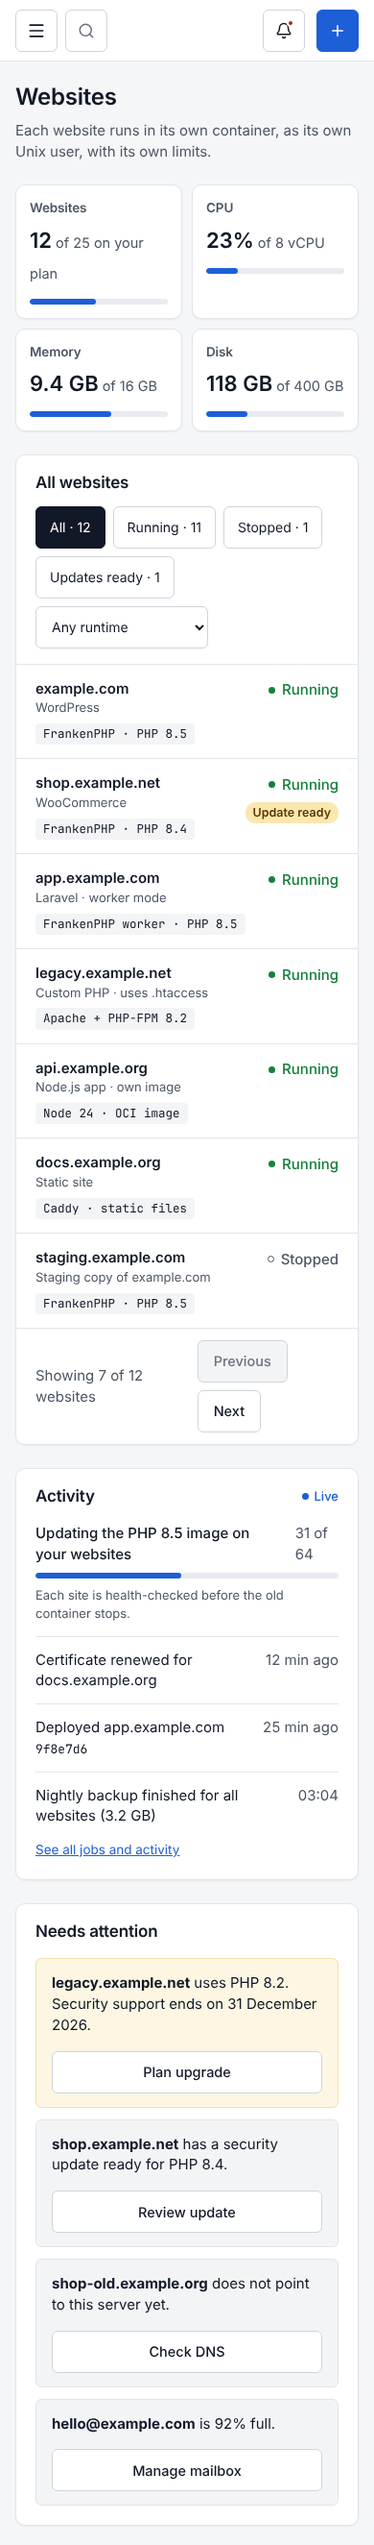
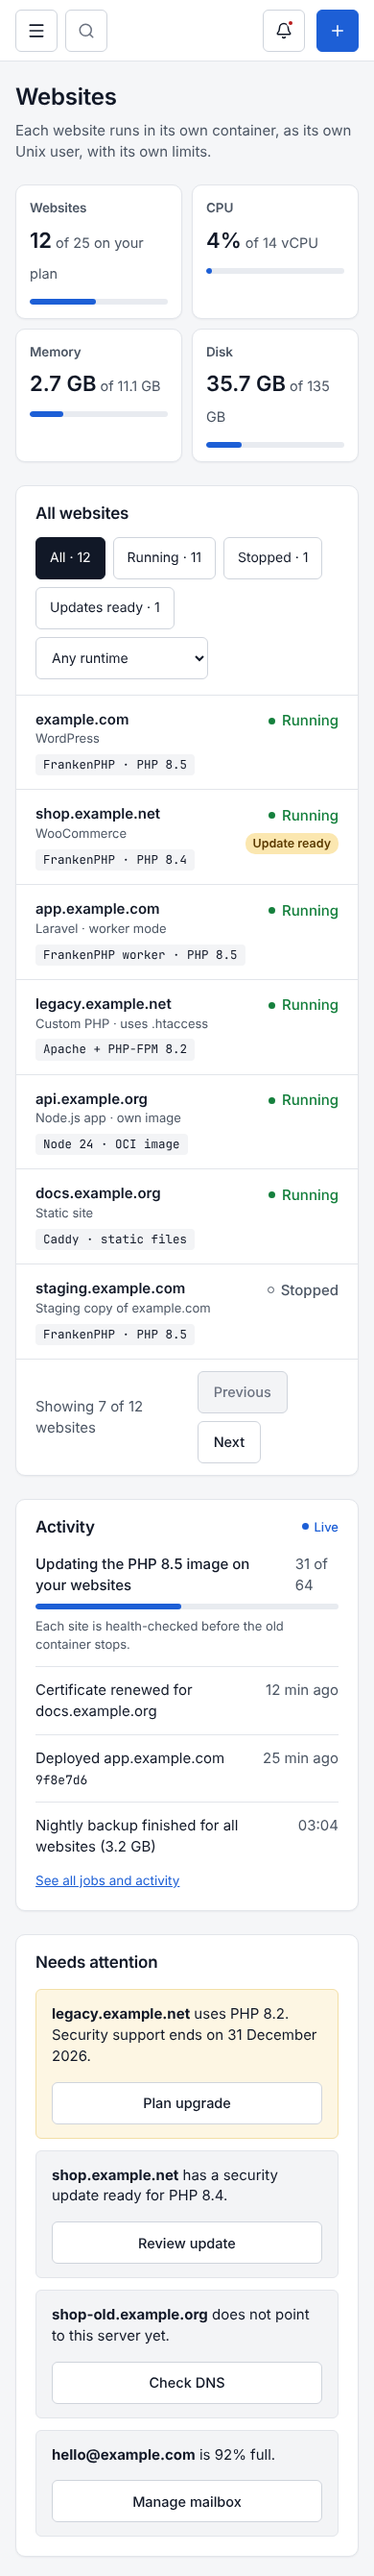
Add a registry check button, live screenshots and docs
- Updates: an administrator can check one image for a new version now.
- Release: pin cosign 2.5.2, because Podman and the panel read the ".sig"
  signature tags of cosign 2.
- Screenshots of the panel on the real API, as an administrator and as a
  website owner. The mock screenshots of the websites list and the new
  website page show the new usage totals.
- status.md, development.md and decisions.md describe live mode, the
  areas that it hides and the registry check.

Claude-Session: https://claude.ai/code/session_01YKQ1BpBq7f3kaKU2RAA1F9

diff --git a/web/src/pages/UpdatesPage.tsx b/web/src/pages/UpdatesPage.tsx
@@ -2,7 +2,8 @@ import { Check } from "lucide-react";
 import { useState } from "react";
 import { Link } from "react-router-dom";
 import { useAction, useStore } from "../api/hooks";
-import { pauseRollout, rollBackAll, setImagePolicy, startRollout } from "../api/store";
+import { LIVE } from "../api/mode";
+import { checkImage, pauseRollout, rollBackAll, setImagePolicy, startRollout } from "../api/store";
 import type { Rollout, UpdatePolicy } from "../api/types";
 import { Topbar } from "../components/Layout";
 import { Card, ConfirmButton, FormError, PageHeader, Status } from "../components/ui";
@@ -75,6 +76,7 @@ function RolloutCard({ rollout }: { rollout: Rollout }) {
 export function UpdatesPage() {
   const state = useStore();
   const start = useAction(startRollout);
+  const check = useAction(checkImage);
   const [editing, setEditing] = useState<string | null>(null);
   const rollout = state.rollout;
   const active = rollout && (rollout.state === "running" || rollout.state === "paused");
@@ -87,7 +89,7 @@ export function UpdatesPage() {
         <PageHeader title="Updates" description="Every runtime is a signed container image. Roll it out in stages, check each website's health, and roll back on its own if a check fails." />
         {rollout && <RolloutCard rollout={rollout} />}
         <Card title="Runtime images" className="mt" actions={<Link className="btn" to="/apps">Add your own image</Link>}>
-          <FormError error={start.error} />
+          <FormError error={start.error ?? check.error} />
           <div className="table-wrap">
             <table>
               <thead><tr><th scope="col">Image</th><th scope="col">Running</th><th scope="col">Available</th><th scope="col">Websites</th><th scope="col">Update policy</th><th scope="col"><span className="visually-hidden">Actions</span></th></tr></thead>
@@ -125,6 +127,7 @@ export function UpdatesPage() {
                       {i.available && i.availableNote !== "rolling_out" && (
                         <button type="button" className="btn btn-sm" disabled={!!active} onClick={() => void start.run(i.id)}>Start rollout</button>
                       )}
+                      {LIVE && !i.available && <button type="button" className="btn btn-sm" disabled={check.busy} onClick={() => void check.run(i.id)}>Check now</button>}
                     </td>
                   </tr>
                 ))}

diff --git a/web/src/api/store.ts b/web/src/api/store.ts
@@ -1145,6 +1145,12 @@ export function setImagePolicy(imageId: string, policy: UpdatePolicy) {
   });
 }
 
+/** FR-1110: checks the registry for a new signed version of the image now. */
+export function checkImage(imageId: string) {
+  if (!LIVE) return;
+  return call(() => live.request("POST", `/images/${imageId}/check`)).then(() => refresh());
+}
+
 export function startRollout(imageId: string) {
   if (LIVE) return call(() => live.request("POST", "/rollouts", { imageId })).then(() => refresh());
   if (state.rollout && (state.rollout.state === "running" || state.rollout.state === "paused")) {

diff --git a/docs/status.md b/docs/status.md
@@ -8,6 +8,9 @@ shows what this repository has now.
 | Item | Where |
 | ---- | ----- |
 | Web panel with all screens of the specification, section 9, and their actions | `web/` |
+| Web panel on the real API (live mode). The production build uses it. | `web/src/api/live.ts` |
+| New image tags from the registry: the panel checks each hour and accepts a tag only with a good signature (FR-1110) | `api/app/Services/ImageUpdateChecker.php` |
+| Host CPU, memory and disk use in the agent report | `agent/internal/status` |
 | Panel API: accounts, scoped tokens, TOTP, customers, plans, websites, domains, runtimes, databases, backups, servers, images, rollouts, jobs and audit events | `api/` |
 | OpenAPI 3.1 document, with a test that compares it to the routes | `openapi/`, `api/tests/Feature/OpenApiTest.php` |
 | Agent: websites, limits, runtime changes without downtime, domains and TLS, MariaDB and PostgreSQL databases, backups and restores, host security updates, reboots, gVisor install and rollback, signed self-update with rollback | `agent/` |
@@ -22,11 +25,11 @@ shows what this repository has now.
 
 | Item | Notes |
 | ---- | ----- |
-| Web panel on the real API | The web panel uses a mock API with the same shapes. The next step is to replace `web/src/api/store.ts` with calls to the API. |
+| Areas without an API | The API of release 0.1 has no DNS, email, files, cron, deploys, SSH access, logs, passkeys, alerts, branding or system settings. In live mode the web panel hides these areas. In mock mode it shows them with sample data. |
+| Use of each website | The agent does not report the CPU, memory and disk use of each website yet. The panel shows 0 for each website. |
 | SFTP | The web panel shows SFTP access. The agent has no SFTP service yet. |
 | gVisor benchmark | Release 0.1 must measure websites, MariaDB and DNS in gVisor (R-08). This is not done. |
 | Passkeys | The web panel shows passkeys. The API does not support passkeys yet. Users sign in with a password and TOTP. |
-| New image tags from the registry | The panel does not read the registry for new tags yet (FR-1110). An operator adds the tag. |
 | Signing key | The maintainers must make the cosign key and commit `cosign.pub`. Refer to [releasing.md](releasing.md). |
 | Tests on real servers | The tests use fakes for the system commands. The Caddy routes have a test with a real edge container. Nobody has installed release 0.1 on a real Debian 13 or Ubuntu 26.04 server yet. |
 | DNS, email, Git deploys, migration, Terraform | These are in releases 0.2 to 1.0. |

diff --git a/docs/screenshots/live/README.md b/docs/screenshots/live/README.md
@@ -1,0 +1,88 @@
+# Screenshots in live mode
+
+These screenshots show the web panel of release 0.1 on the real panel API, with the sample
+data of `php artisan db:seed`. No agent was connected, so the jobs stay at step 1.
+
+## 01-sign-in
+
+Sign in with the email and the password.
+
+![01-sign-in](01-sign-in.png)
+
+## 02-sign-in-error
+
+A wrong password. The API gives the error.
+
+![02-sign-in-error](02-sign-in-error.png)
+
+## 03-websites
+
+Websites of the sample data, as an administrator.
+
+![03-websites](03-websites.png)
+
+## 04-servers
+
+Servers.
+
+![04-servers](04-servers.png)
+
+## 05-add-server
+
+Add server. The command has a new join token, the panel URL, the name and the roles.
+
+![05-add-server](05-add-server.png)
+
+## 06-apps
+
+Apps. Live mode shows only the apps that have an image on the panel.
+
+![06-apps](06-apps.png)
+
+## 07-new-website
+
+New website. An administrator selects the customer.
+
+![07-new-website](07-new-website.png)
+
+## 08-website-created
+
+The new website, with the job from the API.
+
+![08-website-created](08-website-created.png)
+
+## 09-settings
+
+Settings. Live mode shows the API tokens and the audit log.
+
+![09-settings](09-settings.png)
+
+## 10-customers
+
+Customers and plans.
+
+![10-customers](10-customers.png)
+
+## 11-owner-websites
+
+Websites, as a website owner.
+
+![11-owner-websites](11-owner-websites.png)
+
+## 12-owner-new-website
+
+New website, as a website owner. The owner cannot select the server.
+
+![12-owner-new-website](12-owner-new-website.png)
+
+## 13-owner-website-created
+
+The new website of the owner.
+
+![13-owner-website-created](13-owner-website-created.png)
+
+## 14-updates
+
+Updates, after "Check now". The local panel has no release public key, so the check gives an error.
+
+![14-updates](14-updates.png)

diff --git a/docs/development.md b/docs/development.md
@@ -22,8 +22,29 @@ npm test
 npm run build
 ```
 
-In release 0.1, the web panel uses a mock API in `web/src/api/`. The mock API has the same
-shapes as the OpenAPI document. Refer to [status.md](status.md).
+The web panel has two modes:
+
+| Mode | API | Used by |
+| ---- | --- | ------- |
+| live | The panel API at `/api/v1` (`web/src/api/live.ts`) | The production build |
+| mock | An API in memory with sample data (`web/src/api/store.ts`) | `npm run dev`, the tests and the screenshots |
+
+Set `VITE_API_MODE=live` or `VITE_API_MODE=mock` to select a mode. In live mode, the panel
+hides the areas that the API of release 0.1 does not have. Refer to [status.md](status.md).
+
+To use live mode with a local API:
+
+```sh
+cd api
+php artisan migrate:fresh --seed
+php artisan serve                      # http://127.0.0.1:8000
+
+cd ../web
+VITE_API_MODE=live npm run dev         # sends /api to port 8000
+```
+
+Sign in as `admin@example.com`, `reseller@example.com` or `owner@example.com`. The password
+is `password`. The sample users have no TOTP, so leave the code empty.
 
 ## Panel API
 

diff --git a/docs/decisions.md b/docs/decisions.md
@@ -33,3 +33,17 @@ The reasons:
 
 Release 0.3 (email) and release 0.2 (DNS) will add redirects for ports 25 and 53 in the same
 method.
+
+## Who checks the registry for new image tags
+
+The panel checks the registry, not the agent (FR-1110). The reasons:
+
+- One check is sufficient for all servers. The panel decides when a rollout starts, so it
+  must know about a new tag first.
+- The panel verifies the cosign signature of each new tag with the release public key before
+  it shows the tag. Each agent verifies the signature again when it pulls the image, through
+  the Podman signature policy (FR-1101).
+- The agents do not need access to the registry API for tags. They only pull images.
+
+The scheduler container (`cf-panel-scheduler`) runs `php artisan cloudfactory:check-images`
+each hour. An administrator can also check one image now on the Updates page.

diff --git a/docs/screenshots/README.md b/docs/screenshots/README.md
@@ -1,6 +1,7 @@
 # Screenshots
 
-These screenshots show the web panel of release 0.1 with the mock API.
+These screenshots show the web panel of release 0.1 with the mock API. For the panel on the
+real API, refer to [live/README.md](live/README.md).
 
 ## 01-websites
 
